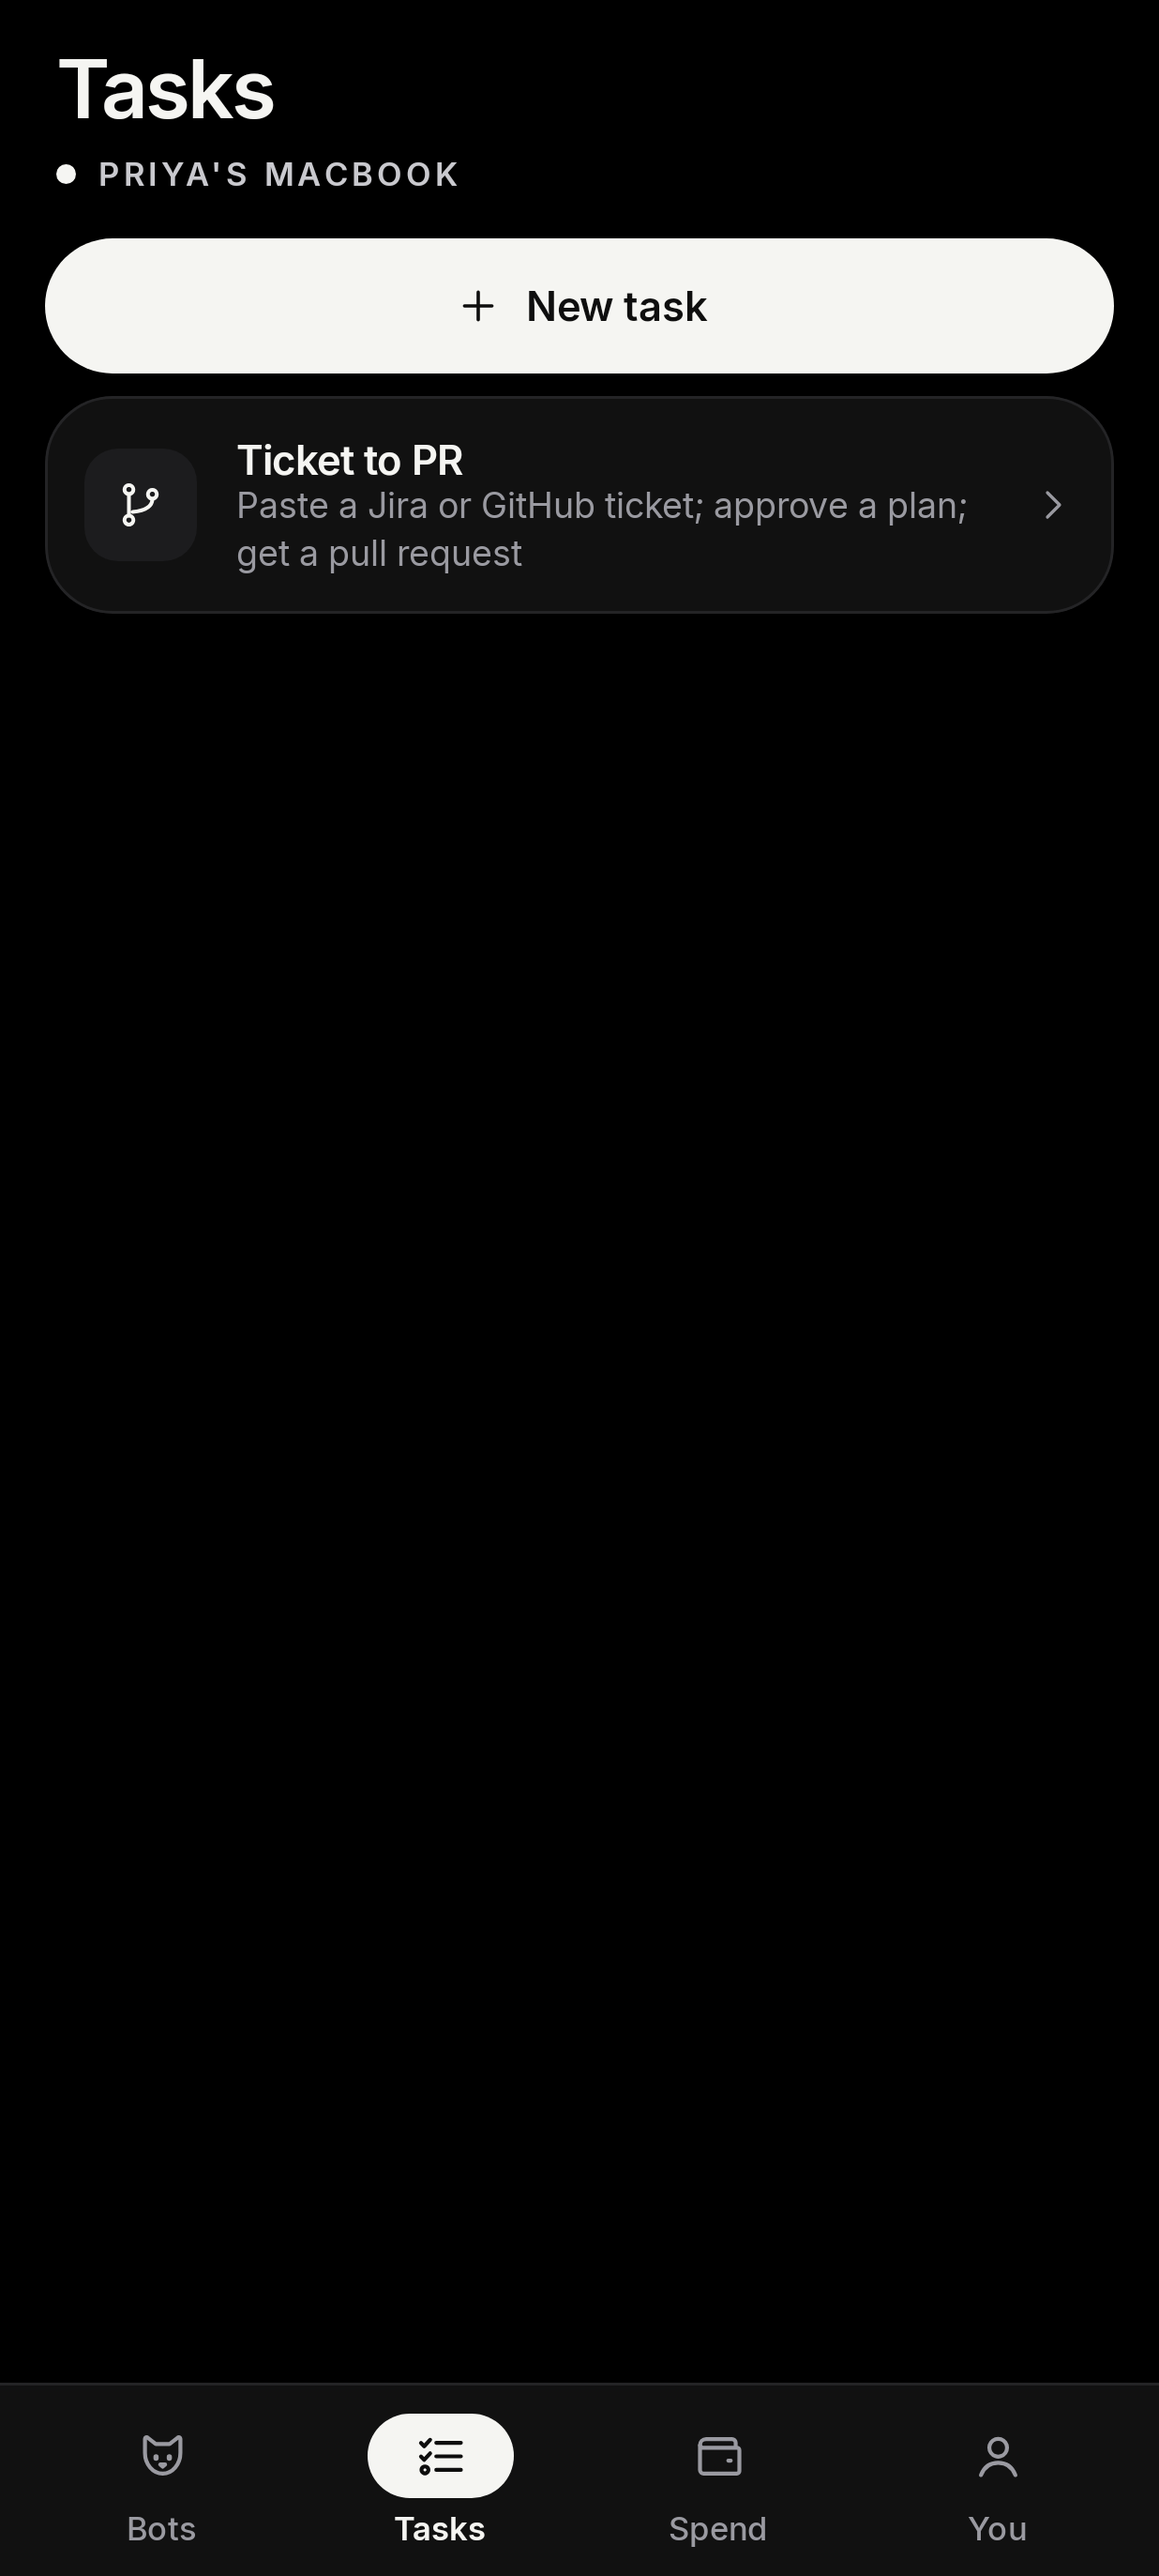
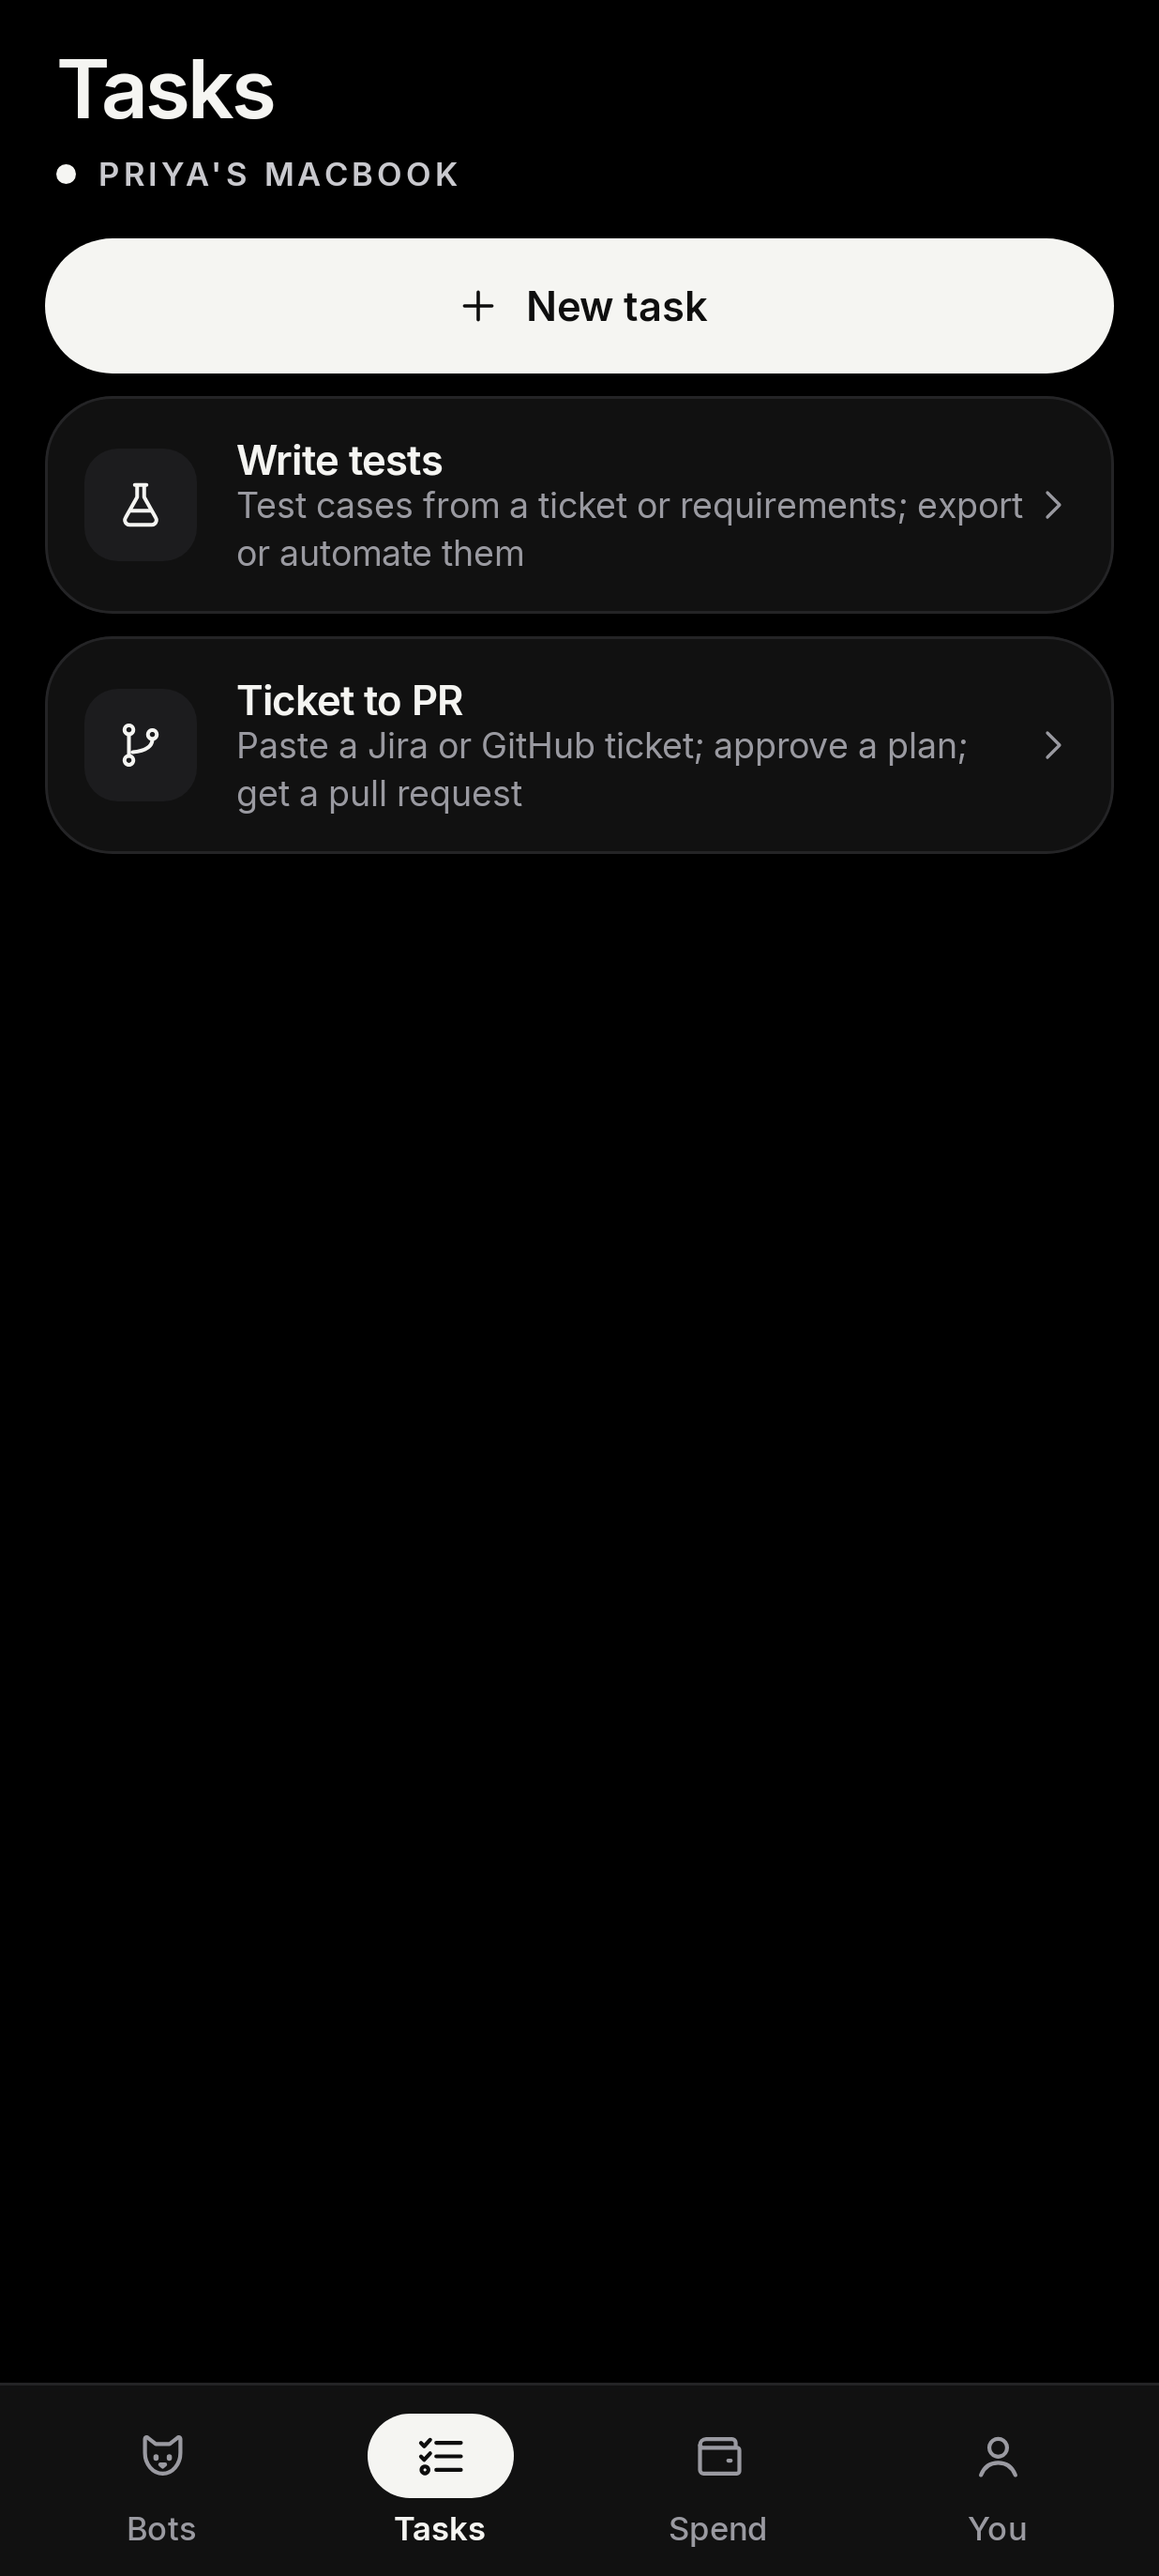
QA test writer: entry card fix, docs, shots

diff --git a/apps/android/app/src/main/java/com/ragul84/hypurr/ui/screens/TasksScreen.kt b/apps/android/app/src/main/java/com/ragul84/hypurr/ui/screens/TasksScreen.kt
@@ -76,6 +76,22 @@ fun TasksScreen(
                     PrimaryButton("New task", Modifier.fillMaxWidth(), icon = signalIcon(SignalIcons.Plus), onClick = onNewTask)
                 }
                 item {
+                    SignalCard(Modifier.fillMaxWidth().pressable("Write tests", onClick = onQa)) {
+                        Row(Modifier.padding(horizontal = 14.dp, vertical = 14.dp), verticalAlignment = Alignment.CenterVertically) {
+                            Box(Modifier.size(40.dp).clip(RoundedCornerShape(12.dp)).background(c.surface2), contentAlignment = Alignment.Center) {
+                                Icon(signalIcon(SignalIcons.Tests), null, tint = c.text, modifier = Modifier.size(20.dp))
+                            }
+                            Spacer(Modifier.width(14.dp))
+                            Column(Modifier.weight(1f)) {
+                                Text("Write tests", color = c.text, style = MaterialTheme.typography.titleSmall)
+                                Text("Test cases from a ticket or requirements; export or automate them", color = c.tertiary,
+                                    style = MaterialTheme.typography.bodySmall)
+                            }
+                            Icon(signalIcon(SignalIcons.Chevron), null, tint = c.tertiary, modifier = Modifier.size(16.dp))
+                        }
+                    }
+                }
+                item {
                     SignalCard(Modifier.fillMaxWidth().pressable("Ticket to PR", onClick = onTicket)) {
                         Row(Modifier.padding(horizontal = 14.dp, vertical = 14.dp), verticalAlignment = Alignment.CenterVertically) {
                             Box(Modifier.size(40.dp).clip(RoundedCornerShape(12.dp)).background(c.surface2), contentAlignment = Alignment.Center) {
@@ -92,23 +108,7 @@ fun TasksScreen(
                     }
                 }
                 if (templates.isNotEmpty()) {
-                    item {
-                    SignalCard(Modifier.fillMaxWidth().pressable("Write tests", onClick = onQa)) {
-                        Row(Modifier.padding(horizontal = 14.dp, vertical = 14.dp), verticalAlignment = Alignment.CenterVertically) {
-                            Box(Modifier.size(40.dp).clip(RoundedCornerShape(12.dp)).background(c.surface2), contentAlignment = Alignment.Center) {
-                                Icon(signalIcon(SignalIcons.Tests), null, tint = c.text, modifier = Modifier.size(20.dp))
-                            }
-                            Spacer(Modifier.width(14.dp))
-                            Column(Modifier.weight(1f)) {
-                                Text("Write tests", color = c.text, style = MaterialTheme.typography.titleSmall)
-                                Text("Test cases from a ticket or requirements; export or automate them", color = c.tertiary,
-                                    style = MaterialTheme.typography.bodySmall)
-                            }
-                            Icon(signalIcon(SignalIcons.Chevron), null, tint = c.tertiary, modifier = Modifier.size(16.dp))
-                        }
-                    }
-                }
-                item { SectionHeader("Start from a template", Modifier.padding(start = 4.dp)) }
+                    item { SectionHeader("Start from a template", Modifier.padding(start = 4.dp)) }
                     item {
                         SignalCard(Modifier.fillMaxWidth()) {
                             Column(Modifier.padding(horizontal = 14.dp, vertical = 4.dp)) {

diff --git a/docs/guides/qa-test-writer.md b/docs/guides/qa-test-writer.md
@@ -1,0 +1,12 @@
+# Write tests (QA test writer)
+
+Tasks → **Write tests**.
+
+1. **What to test.** Pick **Ticket** (a Jira or GitHub link or key, read the same way as Ticket to PR), **Requirements** (paste them), or **Screen** (a name like "Checkout"). Pick the project folder.
+2. **Test cases.** The agent writes 6 to 12 manual cases in plain words: title, steps, expected result, priority (high, medium or low) and type (positive, negative or edge case). Tap a case to edit it. Tap its tags to change the type or priority. You can also delete cases or add your own. **Explain each test** adds a plain "why" under every case. It's on by default when your profile says you're new to QA or a student.
+3. **Export.** CSV (opens in Excel or Google Sheets), Jira (wiki text for a description or comment), Xray (CSV, one row per step), TestRail (CSV) or Zephyr Scale (CSV). Copy or share. Hypurr never posts them anywhere.
+4. **Automate (optional).** Hypurr detects the frameworks the project already uses: JUnit, Espresso, pytest, Jest, Playwright, Cypress, or Selenium/TestNG. Tick cases (or **Pick suggested**), choose a framework and tap **Automate**. A normal task on a safe branch, with approvals and undo, writes the tests with the case id in each test's name.
+5. **Result.** **Run the tests** makes the computer run the framework itself (up to 15 minutes) and shows passed and failed counts in plain words, with the last lines of output.
+6. **Coverage.** Each case shows **Automated** if its id appears in the task's changed test files, and **Manual** otherwise. The Automated column in the export follows this.
+
+Espresso, Playwright, Cypress and Selenium need an emulator, phone or browser available on the computer.
